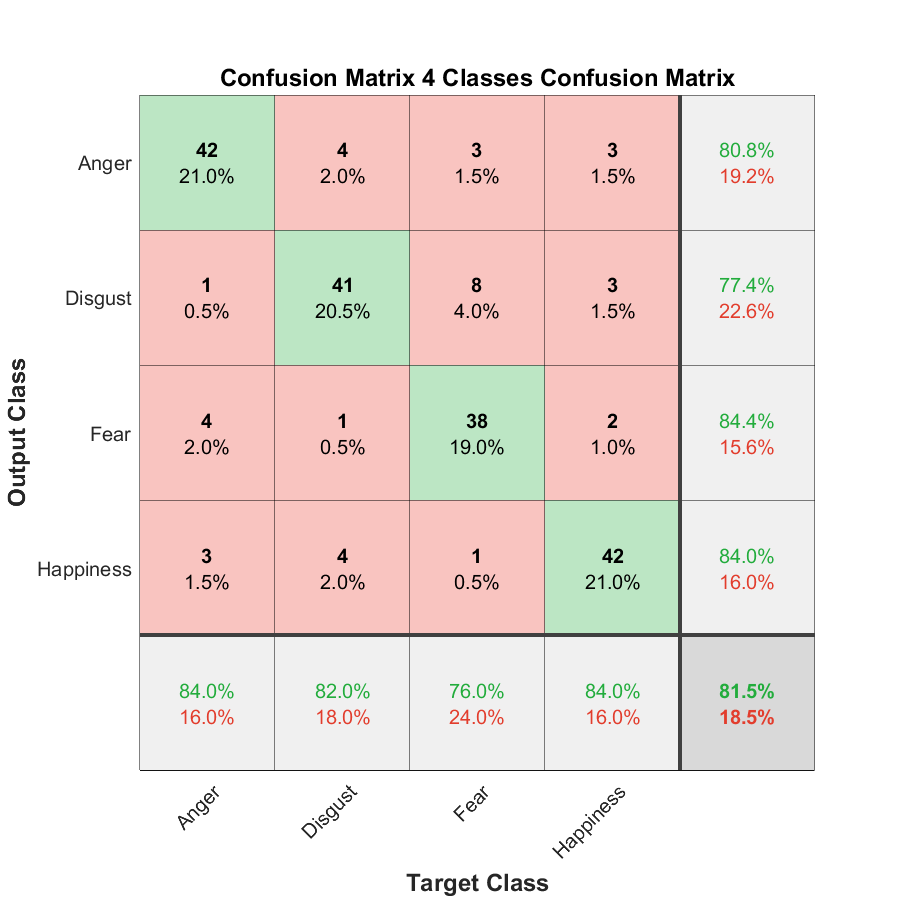
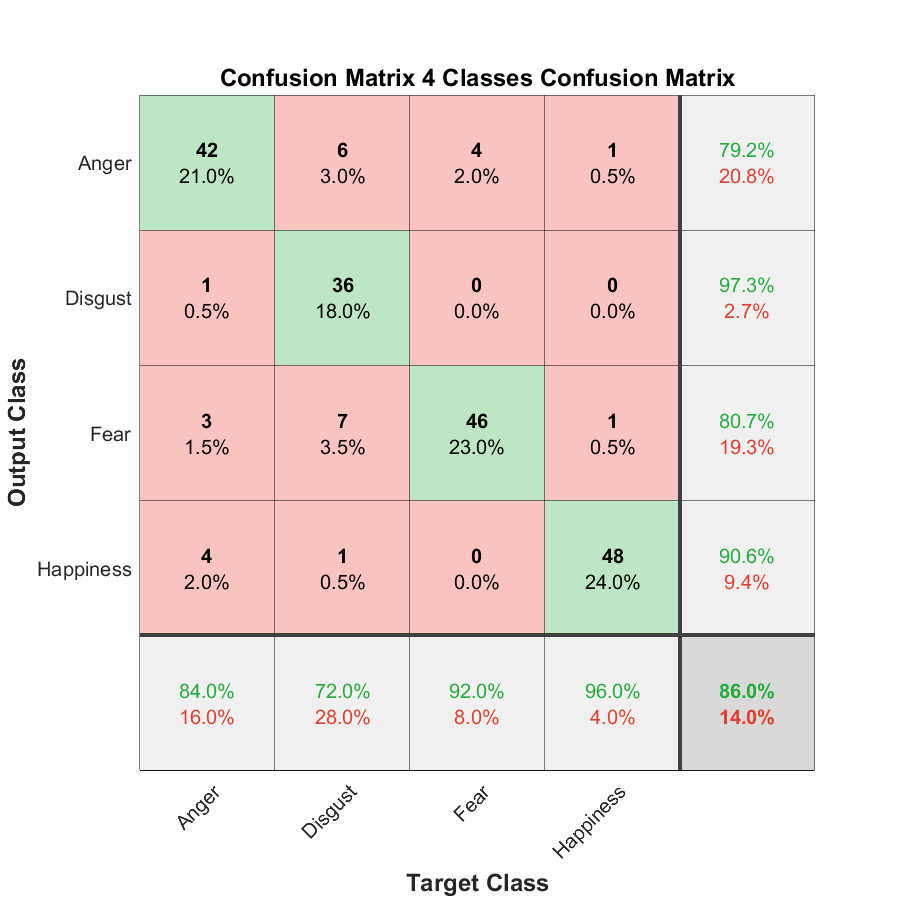
updated tasks

diff --git a/task4_1.m b/task4_1.m
@@ -6,7 +6,9 @@ clc
 
 % Config variables
 % 0-> only two_classes CNN, 1->only four_classes CNN, 2->both
-who_to_train = 1; 
+who_to_train = 2; 
+
+
 % Preparing labels
 anger_cell = cell(1,250);
 anger_cell(:) = {'Anger'};
@@ -33,7 +35,7 @@ fracTrain = 0.8;
 [imdsTrain_two,imdsTest_two] = splitEachLabel(imds_two,fracTrain,'randomize');
 [imdsTrain_four,imdsTest_four] = splitEachLabel(imds_four,fracTrain,'randomize');
 
-imageAugmenter = imageDataAugmenter('RandRotation',[-20,20], 'RandXReflection', true);
+imageAugmenter = imageDataAugmenter('RandRotation',[-20,20], 'RandXReflection', true, 'RandXTranslation', [-10 10], 'RandYTranslation', [-10 10]);
 augimds_two = augmentedImageDatastore(base_img_size,imdsTrain_two,'DataAugmentation',imageAugmenter);
 augimds_four = augmentedImageDatastore(base_img_size,imdsTrain_four,'DataAugmentation',imageAugmenter);
 
